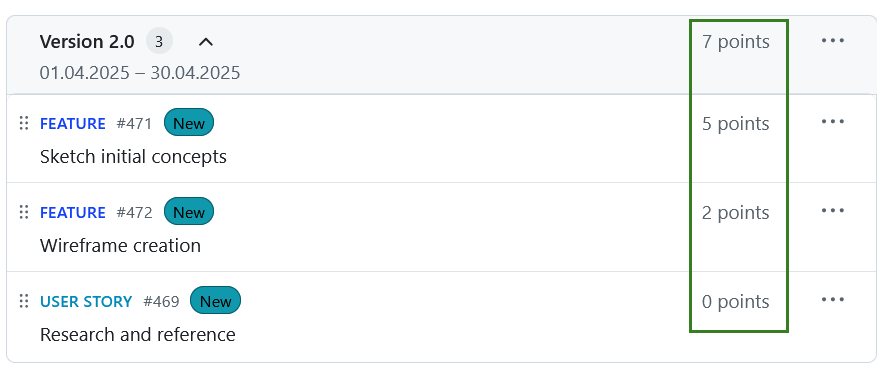
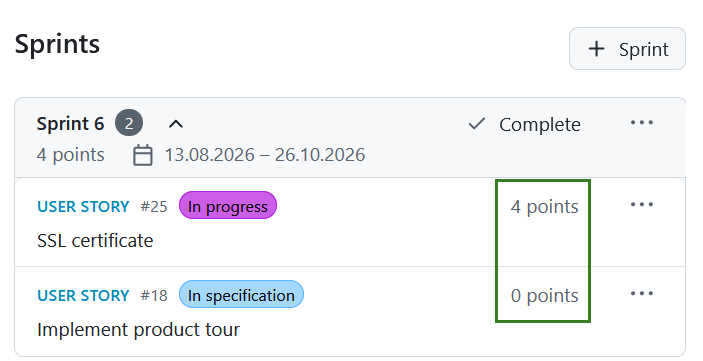
[#74336] 17.4 Agile updates  https://community.openproject.org/wp/74336 (#23012)
* [#74336] 17.4 Agile updates  https://community.openproject.org/wp/74336

[#74336] 17.4 Agile updates

https://community.openproject.org/wp/74336

* update agile documentation

* update

* Update README.md

---------

Pull request: [#74336] 17.4 Agile updates  https://community.openproject.org/wp/74336
[#74336] 17.4 Agile updates

https://community.openproject.org/wp/74336

# Ticket
<!-- Provide the link to respective work package -->

<!-- Contributors: Please check our PR guide: https://www.openproject.org/docs/development/code-review-guidelines/#preparing-your-pull-request before opening a PR. -->

<!-- Reviewers: Please check our Review guide: https://www.openproject.org/docs/development/code-review-guidelines/#reviewing -->

# What are you trying to accomplish?
<!-- Provide a description of the changes. -->

## Screenshots
<!-- Provide before/after screenshots, videos, or graphs for any visual changes; otherwise, remove this section -->

# What approach did you choose and why?
<!-- This section is a place for you to describe your thought process in making these changes.
     List any tradeoffs you made to take on or pay down tech debt.
     Describe any alternative approaches you considered and why you discarded them. -->

# Merge checklist

- [ ] Added/updated tests
- [ ] Added/updated documentation in Lookbook (patterns, previews, etc)
- [ ] Tested major browsers (Chrome, Firefox, Edge, ...)

diff --git a/docs/user-guide/backlogs-scrum/README.md b/docs/user-guide/backlogs-scrum/README.md
@@ -3,46 +3,85 @@ sidebar_navigation:
   title: Backlogs (Scrum)
   priority: 850
 description: Support your Scrum methodology with Backlogs
-keywords: backlogs, scrum, backlog, agile, sprint, sprint bucket
+keywords: backlogs, scrum, backlog, agile, sprint, sprint bucket, backlog bucket
 ---
 
 # Backlog and sprints
 
 > [!NOTE]
-> The **Backlogs** module is getting a reset with OpenProject 17.3 release and will undergo further changes in the upcoming versions. We will keep updating the documentation over time to reflect these changes.
+> The **Backlogs module** is actively being improved. This documentation is updated regularly to reflect the latest changes.
 
-Working in agile project teams is becoming increasingly important, and with OpenProject, it is easier than ever.
-
-OpenProject supports your work with the Agile and Scrum methodology by providing a variety of improved functionalities. You can now create and manage sprints, record and prioritize work packages in sprints and the backlog, use automated sprint boards or burndown-charts, and much more. For more information, please refer to the OpenProject [agile and scrum features](https://www.openproject.org/collaboration-software-features/agile-project-management/) page.
+Working in agile project teams is becoming increasingly important, and with OpenProject, it is easier than ever. OpenProject supports your work with the Agile and Scrum methodology by providing a variety of improved functionalities. You can now create and manage sprints, record and prioritize work packages in sprints and the backlog, use automated sprint boards or burndown-charts, and much more. For more information, please refer to the OpenProject [agile and scrum features](https://www.openproject.org/collaboration-software-features/agile-project-management/) page.
 
 <div class="glossary">
-
-
 A **Backlog** is defined as a module that allows you to use the backlogs feature in OpenProject. In order to use backlogs in a project, the Backlogs module has to be activated in the project settings.
-
 </div>
 
 Please note that this user guide does not represent an introduction to Scrum methodology, but merely explains the Scrum-related functionalities and user instructions in OpenProject.
 
-![Backlogs module in OpenProject showing backlog items and multiple sprints with work packages](openproject_user_guide_backlogs_sprints.png)
-
 ## Manage the backlog
 
-The Backlog is automatically populated based on the work packages in a project that are not yet in sprints. When you add a work package to a sprint, or close it, the work package will no longer be visible in the backlog. 
+The Backlogs module is divided into two sides: on the left, you'll find the **Backlog**, consisting of the **Inbox backlog** at the bottom and any **Backlog buckets** above it (if created). On the right, **Sprints** are displayed. If no backlog buckets have been created, only the Inbox backlog is shown on the left.
 
-When there are too many items in the Backlog, a **Show more items** link appears in the middle. This compacts the middle section so that you always see the top and the bottom of the backlog. 
+![Backlogs module in OpenProject showing backlog items and multiple sprints with work packages](openproject_user_guide_backlog_bucket.png)
 
-![Backlog view with many items collapsed behind a “Show more items” link in the middle](openproject_user_guide_backlogs_show_more_items.png)
+### Backlog buckets
 
-Next to every work package listed in the backlog or sprint, you can access the **More (three dots)** menu, including the following options:
+Backlog buckets help you organize and prioritize work packages within the backlog. A backlog bucket is a named list of work packages that can be refined independently from the Inbox backlog. The Backlog and sprints view displays all backlog buckets within the current project, including the bucket name and the number of contained work packages.
 
-- Open **details view** or **fullscreen view** of a work package. These options allow you to choose how much information (about the backlog item) you'd like to be displayed. 
+> [!NOTE]
+> Backlog buckets are project-specific and are not shared across projects.
+
+Backlog buckets are ordered alphabetically by name, while the **Inbox backlog** is always displayed at the bottom.
+
+A work package:
+
+- can only belong to one backlog bucket at a time.
+- cannot belong to a sprint and a backlog bucket at the same time.
+- cannot belong to a backlog bucket and the Inbox backlog at the same time.
+
+You can sort work packages within a backlog bucket via drag and drop or by using the **Move** option from the work package menu.
+
+#### Create a backlog bucket
+
+To create a backlog bucket, click the **+ Backlog bucket** button in the Backlog and sprints view. This will open a dialog where you can enter the bucket name. Click **Create** to proceed.
+
+> [!NOTE]
+> Creating and deleting backlog buckets requires the appropriate project permissions.
+
+![Backlogs module in OpenProject showing backlog items and multiple sprints with work packages](openproject_user_guide_backlog_add_bucket.png)
+
+#### Rename or delete a backlog bucket
+
+Open the **More (three dots)** menu of a backlog bucket to:
+
+- Rename the backlog bucket
+- Delete the backlog bucket
+
+When deleting a backlog bucket, all contained work packages are automatically moved to the bottom of the Inbox backlog.
+
+### Inbox backlog
+
+The Inbox backlog is automatically populated with all work packages in a project that are not yet assigned to a sprint or backlog bucket. When a work package is added to a sprint or bucket, or closed, it is removed from the Inbox.
+
+> [!NOTE]
+> Closed work packages are removed from the Inbox backlog and backlog buckets, but continue to be visible in sprints.
+
+When there are too many items in the backlog, a **Show more items** link appears in the middle of the Inbox backlog. This collapses the middle section so that you always see the top and the bottom of the Inbox backlog.
+
+![Backlog view with many items collapsed behind a "Show more items" link in the middle](openproject_user_guide_backlogs_show_more_items.png)
+
+## Sort and move work packages
+
+Next to every work package listed in the Inbox backlog, backlog bucket, or sprint, you can access the **More (three dots)** menu, including the following options:
+
+- Open **details view** or **fullscreen view** of a work package. These options allow you to choose how much information (about the backlog item) you'd like to be displayed.
 - **Copy** the work package URL or ID to the clipboard.
 - **Move** a work package.
 
 ![Backlog work package menu with options like details view, copy link, and move](openproject_user_guide_backlogs_menu_items.png)
 
-Details view opens the work package information on the right side, the same way as in the notifications center.
+Details view opens the work package information on the right side, the same way as in the notifications center. You can open the details view with a single click on a work package card.
 
 ![Backlog item opened in details view on the right side panel](openproject_user_guide_backlogs_open_details_view.png)
 
@@ -50,16 +89,23 @@ Opening the fullscreen view opens the work package in fullscreen.
 
 ![Work package opened in fullscreen in OpenProject](openproject_user_guide_backlogs_fullscreen_view.png)
 
-With the **Move** option, you can order items according to your preference within the backlog or move them to a sprint. You can also drag and drop the work packages. 
+You can prioritize work packages within the Inbox backlog, a backlog bucket, or a sprint by dragging and dropping them or by using the **Move** option from the work package menu. The entire work package card can be used as a drag-and-drop area.
+
+Depending on the current location of the work package, you can move it:
+
+- within the current backlog bucket or sprint,
+- into another backlog bucket,
+- into another sprint,
+- back to the Inbox backlog.
 
 ![Move options menu for a backlog item showing reorder and sprint assignment options](openproject_user_guide_backlog_move_options.png)
 
 ## Create and manage sprints
 
->  [!IMPORTANT] 
->  Starting with the OpenProject 17.3 release, Sprints are new objects no longer linked to versions (as was the case with previous OpenProject versions). 
+> [!IMPORTANT]
+> Starting with the OpenProject 17.3 release, Sprints are new objects no longer linked to versions (as was the case with previous OpenProject versions).
 
-A **Sprint** is a planned and time-boxed period in which a Scrum team completes a defined set of tasks. They are containers or buckets where work packages can be manually added or removed from the Backlog via a drag-and-drop icon.
+A **Sprint** is a planned and time-boxed period in which a Scrum team completes a defined set of tasks. They are containers where work packages can be manually added or removed from the Inbox backlog or backlog buckets via drag and drop or the menu.
 
 ### Create a sprint
 
@@ -71,28 +117,39 @@ The naming of sprints is number-based by default (e.g. Sprint 1, Sprint 2). Thes
 
 ### Start or complete a sprint
 
-Your sprint is set in motion by clicking the **Start sprint** button. Clicking it will open the sprint board.
+Your sprint is set in motion by clicking the **Start** button in the sprint header. Clicking it will open the sprint board.
 
 > [!NOTE]
-> A sprint cannot be started if another sprint is already in progress. In this case the button will be disabled.
+> A sprint cannot be started if another sprint is already in progress. In this case, the button will be disabled.
 
 ![Start sprint button in the Backlogs module interface](openproject_user_guide_backlogs_start_sprint.png)
 
-Once a sprint has started, it is considered active and can be managed through the **Sprint menu** options, which include:
+Once a sprint has started, it is considered active. The sprint header displays the current sprint status and allows you to complete the sprint directly from the header. To complete a sprint, click the **Complete** button in the sprint header.
 
-- Complete sprint
+![Complete sprint button in the Backlogs module interface](openproject_user_guide_backlogs_complete_sprint.png)
+
+If there are still unfinished work packages in the sprint, a dialog will open prompting you to decide what should happen to them. You can choose to:
+
+- Move them to the top of the Inbox backlog
+- Move them to the bottom of the Inbox backlog
+- Move them to another sprint
+
+If you choose to move work packages to another sprint, you will need to select the target sprint from the list. After making your selection, click the **Complete sprint** button to finish the sprint. The sprint will then be marked as completed, and other sprints can be started.
+
+![Form to select how to proceed with items in progress when completing a sprint in OpenProject](openproject_user_guide_backlogs_complete_sprint_wp_in_progress.png)
+
+Additional sprint actions are available through the **Sprint menu**, including:
+
 - Edit sprint
 - Add work package
-- Open a Sprint board
+- Sprint board
 - Burndown chart
 
-![Sprint menu with options like edit sprint, add work package, board, and burndown chart](openproject_user_guide_backlog_sprint_menu_item.png)
+![Sprint menu with options like edit sprint and add work package](openproject_user_guide_backlog_sprint_menu_item.png)
 
 ### Add a work package
 
-In order to create a new work package in the Backlogs module, click on the More (three dots) icon in the top right corner of a Sprint and choose **+ Add work package** from the drop-down menu.
-
-A form dialog will appear to create a new work package. Here, you directly specify the work package type, subject, and description. Click **Create** to proceed.
+In order to create a new work package in the Backlogs module, click on the More (three dots) icon in the top right corner of a Sprint and choose **+ Add work package** from the drop-down menu. A form dialog will appear to create a new work package. Here, you directly specify the work package type, subject, and description. Click **Create** to proceed.
 
 ![A new work package added to a sprint directly in OpenProject Backlogs module](openproject_user_guide_backlogs_new_wp_form.png)
 
@@ -100,15 +157,16 @@ A new item will be added to the backlog to display the newly created story.
 
 ### Prioritize stories
 
-You can prioritize different work packages within a backlog or sprint by either using the **Move** option or by dragging & dropping them. This allows you to assign work packages to a specific sprint, return to a backlog or re-order them within a sprint.
+You can prioritize different work packages within the Inbox backlog, a backlog bucket, or a sprint by either using the **Move** option or by dragging & dropping them. This allows you to assign work packages to a specific sprint or backlog bucket, return them to the Inbox backlog, or re-order them within a sprint or bucket.
 
 ### Story points
 
-In a sprint, you can directly document necessary effort as story points. The overall effort for a sprint is automatically calculated, and the sum of story points is displayed in the top row.
+In a sprint, you can directly document necessary effort as story points.
 
 <div class="glossary">
 Story points are defined as numbers assigned to a work package used to estimate (relatively) the size of the work.
 </div>
+
 ![Story points assigned to work packages in a sprint in OpenProject backlogs module](openproject_user_guide_backlogs_story_points.png)
 
 You can edit story points directly from the backlogs view. In order to do so, simply click the work package you want to edit and make the desired changes in the detailed view of the work package that will open on the right.
@@ -117,9 +175,9 @@ You can edit story points directly from the backlogs view. In order to do so, si
 
 ### Sprint boards
 
-Sprint boards are especially helpful for teams to track and visualize progress from the start. When you click the **Start sprint** within the Backlog, a dedicated sprint board is automatically created and you are forwarded to the active sprint board. 
+Sprint boards are especially helpful for teams to track and visualize progress from the start. Sprint boards replace the previous task boards used in earlier versions of the Backlogs module.
 
-Boards are named using this pattern: [Project name: Sprint name]. As an example: **Scrum project: Sprint 1**.
+When you click the **Start** button in a sprint header, a dedicated sprint board is automatically created and you are forwarded to the active sprint board. Boards are named using this pattern: [Project name: Sprint name]. As an example: **Scrum project: Sprint 1**.
 
 The sprint board inherits project permissions automatically, which means it is accessible to all project members by default.
 
@@ -128,16 +186,25 @@ The sprint board inherits project permissions automatically, which means it is a
 > [!NOTE]
 > The sprint board and burndown chart are only visible on the menu when a sprint is active.
 
+### Sprint field in work package tables
+
+The Sprint property can also be used in work package tables. You can:
+
+- display the Sprint column,
+- sort by Sprint,
+- group work packages by Sprint.
+
+> [!NOTE]
+> Viewing Sprint information in work package tables requires the appropriate project permissions.
+
 ### Burndown charts
 
-**Burndown charts** are a helpful tool to visualize a sprint’s progress. With OpenProject, you can generate sprint and task burndown charts automatically.
+**Burndown charts** are a helpful tool to visualize a sprint's progress. With OpenProject, you can generate sprint and task burndown charts automatically.
 
 > [!TIP]
-> As a precondition, the sprint’s start and end date must be defined and the information on story points should be well maintained.
+> As a precondition, the sprint's start and end date must be defined and the information on story points should be well maintained.
 
-The sprint burndown is calculated from the sum of estimated story points. If a user story is set to “closed“ (or another status which is defined as closed (see admin settings)), it counts towards the burndown.
-
-The task burndown is calculated from the estimated number of hours necessary to complete a task. If a task is set to “closed“, the burndown is adjusted.
+The sprint burndown is calculated from the sum of estimated story points. If a user story is set to "closed" (or another status which is defined as closed (see admin settings)), it counts towards the burndown. The task burndown is calculated from the estimated number of hours necessary to complete a task. If a task is set to "closed", the burndown is adjusted.
 
 The remaining story points per sprint are displayed in the chart. Optionally, the ideal burn-down can be displayed for reference. The ideal burndown assumes a linear completion of story points from the beginning to the end of a sprint.
 